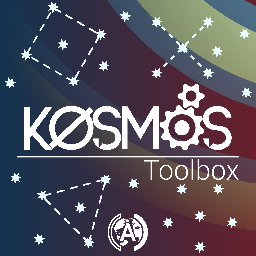
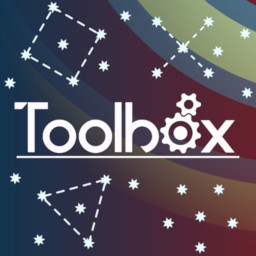
Debrand Kosmos Toolbox to Hekate Toolbox

diff --git a/source/gui/gui_sysmodule.cpp b/source/gui/gui_sysmodule.cpp
@@ -34,7 +34,7 @@ GuiSysmodule::GuiSysmodule() : Gui() {
 
   anyModulesPresent = false;
 
-  std::ifstream configFile("sdmc:/switch/KosmosToolbox/config.json");
+  std::ifstream configFile("sdmc:/switch/HekateToolbox/config.json");
   json configJson;
 
   if (!configFile.fail()) {
@@ -185,7 +185,7 @@ void GuiSysmodule::draw() {
   Gui::drawRectangle((u32)((Gui::g_framebuffer_width - 1220) / 2), 87, 1220, 1, currTheme.textColor);
   Gui::drawRectangle((u32)((Gui::g_framebuffer_width - 1220) / 2), Gui::g_framebuffer_height - 73, 1220, 1, currTheme.textColor);
   Gui::drawTextAligned(fontIcons, 70, 68, currTheme.textColor, "\uE130", ALIGNED_LEFT);
-  Gui::drawTextAligned(font24, 70, 58, currTheme.textColor, "        Kosmos Toolbox", ALIGNED_LEFT);
+  Gui::drawTextAligned(font24, 70, 58, currTheme.textColor, "        Hekate Toolbox", ALIGNED_LEFT);
 
   if (hidMitmInstalled())
     Gui::drawTextAligned(font20, Gui::g_framebuffer_width - 50, Gui::g_framebuffer_height - 25, currTheme.textColor, "\uE0E2 Key configuration     \uE0E1 Back     \uE0E0 OK", ALIGNED_RIGHT);

diff --git a/source/gui/gui_hekate.cpp b/source/gui/gui_hekate.cpp
@@ -132,7 +132,7 @@ void GuiHekate::draw() {
   Gui::drawRectangle((u32)((Gui::g_framebuffer_width - 1220) / 2), 87, 1220, 1, currTheme.textColor);
   Gui::drawRectangle((u32)((Gui::g_framebuffer_width - 1220) / 2), Gui::g_framebuffer_height - 73, 1220, 1, currTheme.textColor);
   Gui::drawTextAligned(fontIcons, 70, 68, currTheme.textColor, "\uE130", ALIGNED_LEFT);
-  Gui::drawTextAligned(font24, 70, 58, currTheme.textColor, "        Kosmos Toolbox", ALIGNED_LEFT);
+  Gui::drawTextAligned(font24, 70, 58, currTheme.textColor, "        Hekate Toolbox", ALIGNED_LEFT);
   Gui::drawTextAligned(font20, Gui::g_framebuffer_width - 50, Gui::g_framebuffer_height - 25, currTheme.textColor, "\uE0E1 Back     \uE0E0 OK", ALIGNED_RIGHT);
 
   Gui::drawTextAligned(font20, Gui::g_framebuffer_width / 2, 150, currTheme.textColor, "Select the Hekate profile you want to reboot your Nintendo Switch into. \n Make sure to close all open titles beforehand as this will reboot your device immediately.", ALIGNED_CENTER);

diff --git a/source/gui/gui_main.cpp b/source/gui/gui_main.cpp
@@ -116,7 +116,7 @@ void GuiMain::draw() {
   Gui::drawRectangle((u32)((Gui::g_framebuffer_width - 1220) / 2), 87, 1220, 1, currTheme.textColor);
   Gui::drawRectangle((u32)((Gui::g_framebuffer_width - 1220) / 2), Gui::g_framebuffer_height - 73, 1220, 1, currTheme.textColor);
   Gui::drawTextAligned(fontIcons, 70, 68, currTheme.textColor, "\uE130", ALIGNED_LEFT);
-  Gui::drawTextAligned(font24, 70, 58, currTheme.textColor, "        Kosmos Toolbox", ALIGNED_LEFT);
+  Gui::drawTextAligned(font24, 70, 58, currTheme.textColor, "        Hekate Toolbox", ALIGNED_LEFT);
   Gui::drawTextAligned(font20, Gui::g_framebuffer_width - 50, Gui::g_framebuffer_height - 25, currTheme.textColor, "\uE0E1 Back     \uE0E0 OK", ALIGNED_RIGHT);
   Gui::drawTextAligned(font24, Gui::g_framebuffer_width / 2, Gui::g_framebuffer_height - 130, currTheme.textColor, "Press \uE044 to save and return back to the home menu", ALIGNED_CENTER);
 

diff --git a/source/gui/gui_hid_mitm.cpp b/source/gui/gui_hid_mitm.cpp
@@ -80,7 +80,7 @@ void GuiHIDMitm::draw() {
   Gui::drawRectangle((u32)((Gui::g_framebuffer_width - 1220) / 2), 87, 1220, 1, currTheme.textColor);
   Gui::drawRectangle((u32)((Gui::g_framebuffer_width - 1220) / 2), Gui::g_framebuffer_height - 73, 1220, 1, currTheme.textColor);
   Gui::drawTextAligned(fontIcons, 70, 68, currTheme.textColor, "\uE130", ALIGNED_LEFT);
-  Gui::drawTextAligned(font24, 70, 58, currTheme.textColor, "        Kosmos Toolbox", ALIGNED_LEFT);
+  Gui::drawTextAligned(font24, 70, 58, currTheme.textColor, "        Hekate Toolbox", ALIGNED_LEFT);
   Gui::drawTextAligned(font20, Gui::g_framebuffer_width - 50, Gui::g_framebuffer_height - 25, currTheme.textColor, "\uE122 Remap", ALIGNED_RIGHT);
 
   Gui::drawImage(Gui::g_framebuffer_width / 2 - 500, Gui::g_framebuffer_height / 2 - 220, 1001, 441, switch_bin, IMAGE_MODE_RGBA32);

diff --git a/README.md b/README.md
@@ -1,6 +1,6 @@
-# Kosmos Toolbox
+# Hekate Toolbox
 
-A toolbox that allows the user to change settings of the loader (requires a modified version of loader). It's aimed for the use with tomGER's SDFiles.
+A toolbox that allows the user to change settings of the loader (requires a modified version of loader). It was originally developed for the use with tomGER's SDFiles (Later AtlasNX's Kosmos), but fully works with Hekate-based CFW configurations.
 
 ## Current Features
 - Reading and modifying of the hbmenu launch button combination 
